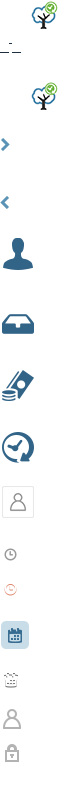
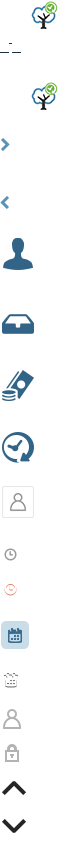
update
new icons for the arrow

diff --git a/css/style.css b/css/style.css
@@ -96,6 +96,8 @@ a, a:hover{ text-decoration: none; }
 			.noteText { width: 274px; }
 		.no_data { }
 			.no_data p { color: #000; font-size: 18px; font-family:Helvetica; text-align: center; padding-top: 40%; }
+.timepicker .glyphicon-chevron-up{  background: url("../images/icons.png") no-repeat -2px -780px; height: 24px; width: 24px; }
+.timepicker .glyphicon-chevron-down{  background: url("../images/icons.png") no-repeat -2px -810px; height: 24px; width: 24px; }
 .glyphicon { background: url("../img/glyphicons-halflings.png") no-repeat left top;height: 14px; vertical-align: text-top; }
 .glyphicon-chevron-left { background-position: -432px -72px; }
 .glyphicon-chevron-right { background-position: -458px -72px; }
